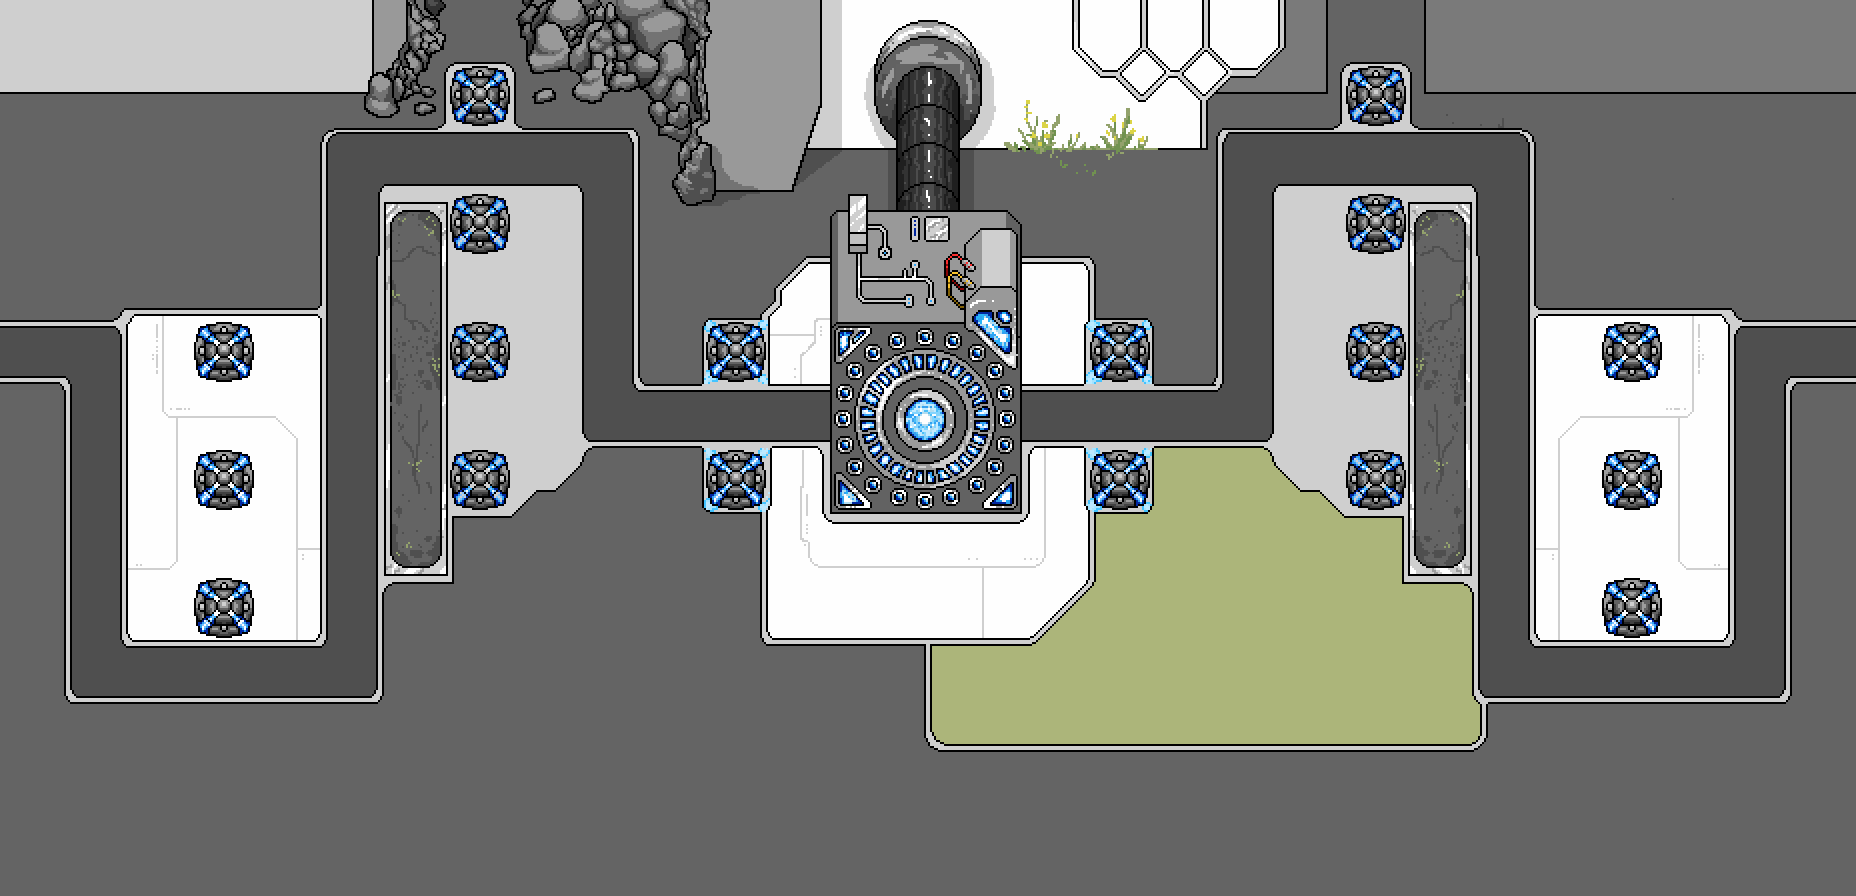
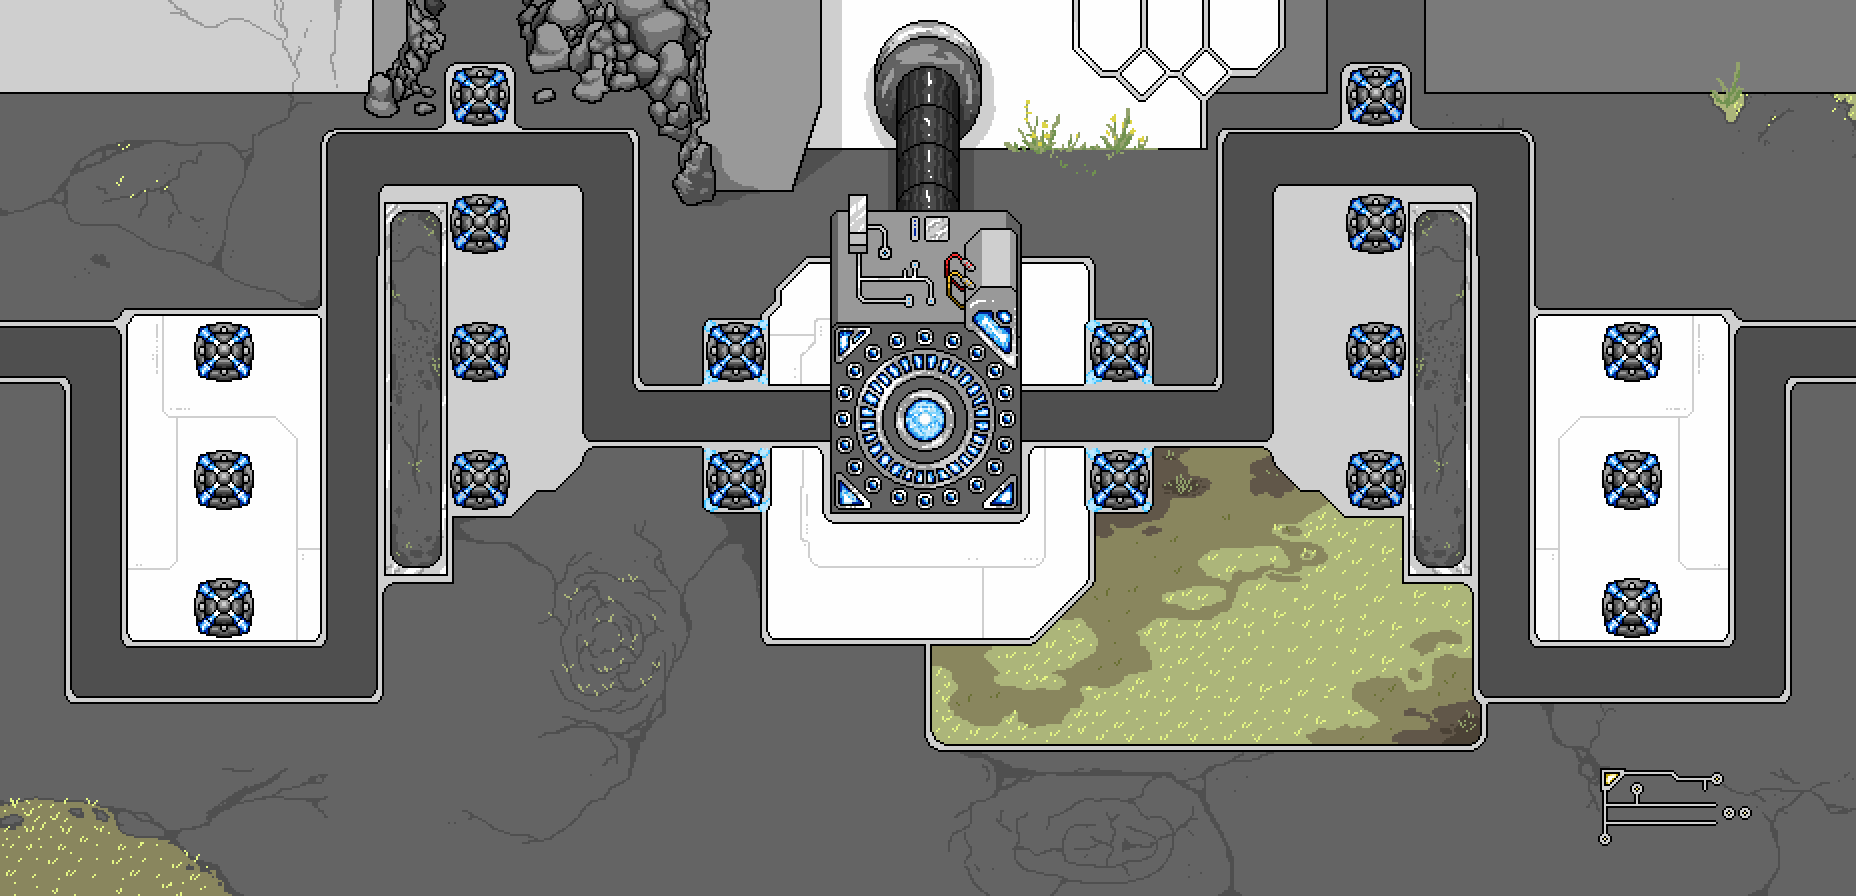
mapas lvl 2 y 3 actualizados

diff --git a/LaCaidaDeADAN/src/main/resources/static/js/infiniteLevel3.js b/LaCaidaDeADAN/src/main/resources/static/js/infiniteLevel3.js
@@ -129,7 +129,7 @@ class InfiniteLevel3 extends Phaser.Scene {
         this.load.image('enemy', 'assets/pixil-frame-0.png');
         this.load.image('deadEnemy', 'assets/basic robot dead.png');
         this.load.image('bullet', 'assets/bullet.png');
-        this.load.image('map', 'assets/mapLevel2.png');
+        this.load.image('map', 'assets/mapLevel3.png');
         this.load.image('select', 'assets/select.png');
         this.load.image('energyTurret', 'assets/energia.png');
         this.load.image('skelly', 'assets/skelly.png');
@@ -156,6 +156,7 @@ class InfiniteLevel3 extends Phaser.Scene {
         this.load.audio('defeat', 'assets/defeat.wav');
         this.load.audio('victory', 'assets/Victoria.mp3');
         this.load.audio('drill', 'assets/Enemigo esqueleto.mp3');
+        this.load.audio('upgrade', 'assets/Upgrade.mp3');
 
         this.load.image('energy', 'assets/energy.png');
         this.load.image('coin', 'assets/coin.png');

diff --git a/LaCaidaDeADAN/src/main/resources/static/js/level3.js b/LaCaidaDeADAN/src/main/resources/static/js/level3.js
@@ -129,7 +129,7 @@ class Level3 extends Phaser.Scene {
         this.load.image('enemy', 'assets/pixil-frame-0.png');
         this.load.image('deadEnemy', 'assets/basic robot dead.png');
         this.load.image('bullet', 'assets/bullet.png');
-        this.load.image('map', 'assets/mapLevel2.png');
+        this.load.image('map', 'assets/mapLevel3.png');
         this.load.image('select', 'assets/select.png');
         this.load.image('energyTurret', 'assets/energia.png');
         this.load.image('skelly', 'assets/skelly.png');

diff --git a/LaCaidaDeADAN/src/main/resources/static/js/skellyEnemy.js b/LaCaidaDeADAN/src/main/resources/static/js/skellyEnemy.js
@@ -46,7 +46,7 @@ class SkellyEnemy extends Enemy{
         this.anims.play('attackSkelly', true);
         var angle = Phaser.Math.Angle.Between(this.follower.vec.x, this.follower.vec.y, 1856/2, 896/2);
         this.scene.addEnemyBullet(this.follower.vec.x, this.follower.vec.y, angle, this.damageAmmount);
-        this.scene.sound.play('drill', {volume: 0.2});
+        this.scene.sound.play('drill', {volume: 0.15});
 
     }
  }

diff --git a/LaCaidaDeADAN/src/main/resources/static/js/level2.js b/LaCaidaDeADAN/src/main/resources/static/js/level2.js
@@ -159,6 +159,7 @@ class Level2 extends Phaser.Scene {
         this.load.audio('defeat', 'assets/defeat.wav');
         this.load.audio('victory', 'assets/Victoria.mp3');
         this.load.audio('drill', 'assets/Enemigo esqueleto.mp3');
+        this.load.audio('upgrade', 'assets/Upgrade.mp3');
 
         this.load.image('energy', 'assets/energy.png');
         this.load.image('coin', 'assets/coin.png');
